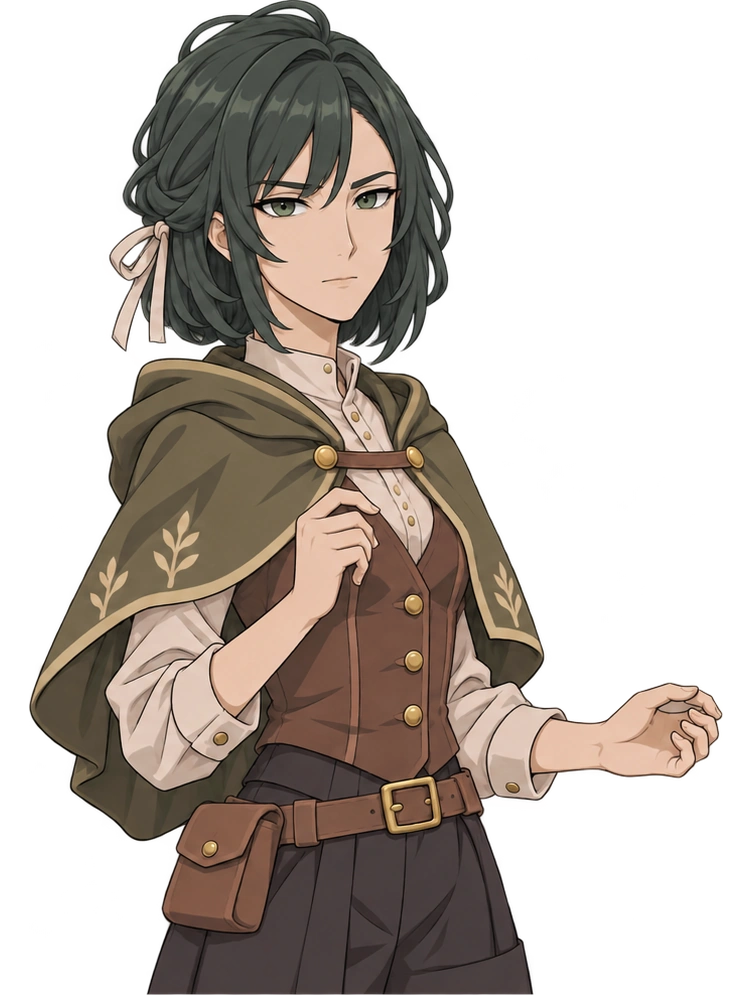
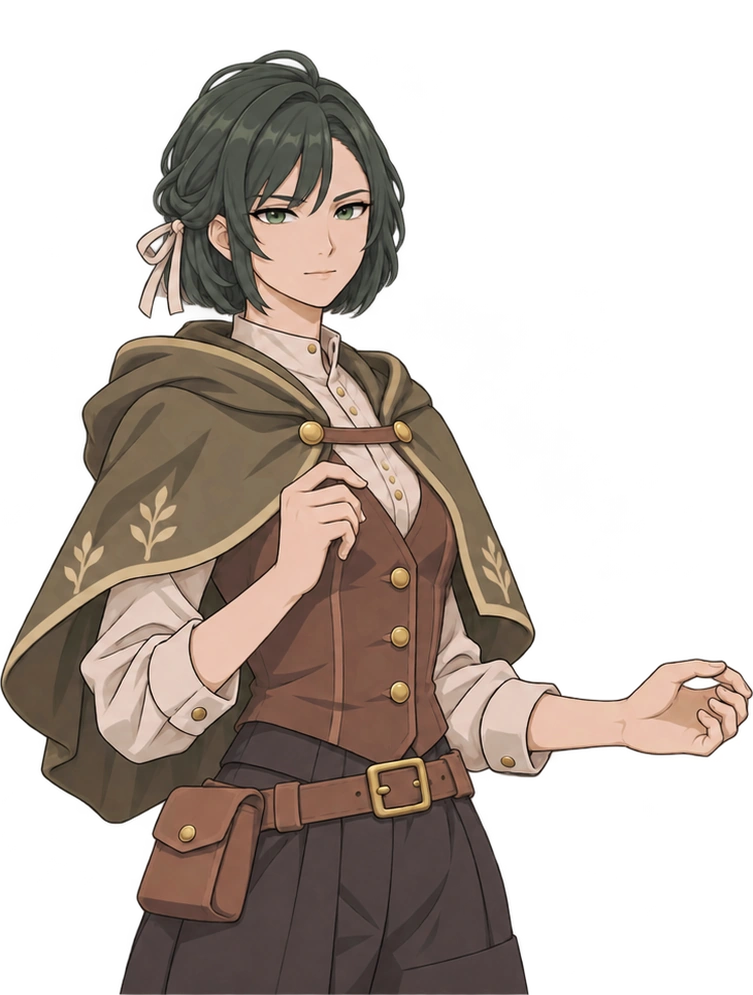
Balance Noa head proportions and soften cool-beauty portraits

Changed region(s): [[0.0, 0.0, 1.0, 1.0]]

diff --git a/tomori/game.js b/tomori/game.js
@@ -3,7 +3,7 @@
 const D=TomoriData,C=TomoriCore,$=id=>document.getElementById(id);
 const SAVE='sword-sale-v1',BACKUP=SAVE+'-backup',PREFS='tomori-preferences-v1';
 const esc=s=>String(s).replace(/[&<>"']/g,c=>({'&':'&amp;','<':'&lt;','>':'&gt;','"':'&quot;',"'":'&#39;'}[c]));
-const normalArt=(id,part)=>'assets/'+id+'-normal-'+part+'.webp'+(id==='noa'?'?v=portraits-v8':'');
+const normalArt=(id,part)=>'assets/'+id+'-normal-'+part+'.webp'+(id==='noa'?'?v=portraits-v10':'');
 const icon=id=>`<svg aria-hidden="true"><use href="#${id}-i"/></svg>`;
 let state=null,saved=null,active=null,target=null,draft=[],busy=false,generation=0,hydrated=false,screen='title',typing=null,fullLine='',toastTimer,flowQueued=false,healAction=null,dying=new Set(),replay=null,currentDialogue=null,currentCue=null;
 let prefs={reduced:matchMedia('(prefers-reduced-motion: reduce)').matches,speed:'normal',guideSeen:false};
@@ -24,7 +24,7 @@ const assetList=['forest','yard','shop','tavern',...D.IDS.flatMap(id=>[id+'-norm
 async function load(firstLine){
 const firstExpression=firstLine?TomoriPortraits.expressionAt(firstLine,prefs.speed==='instant'||prefs.reduced?Infinity:0):null;
 if(hydrated){if(firstLine)await portraitView.preload(firstLine.who,firstExpression);return;}
-const sources=assetList.map(name=>'assets/'+name+'.webp'+(name.startsWith('noa-normal-')?'?v=portraits-v8':''));
+const sources=assetList.map(name=>'assets/'+name+'.webp'+(name.startsWith('noa-normal-')?'?v=portraits-v10':''));
 if(firstLine)sources.push(portraitView.texture(firstLine.who,firstExpression));
 $('loading').hidden=false;let n=0;await Promise.all(sources.map(src=>new Promise(resolve=>{const im=new Image();im.onload=im.onerror=()=>{$('load-progress').value=++n/sources.length;resolve();};im.src=src;})));hydrated=true;$('loading').hidden=true;}
 async function begin(fresh=false){if(busy)return;busy=true;closeAll();const nextState=fresh?C.fresh():C.validate(saved)||C.fresh(),cursor=nextState.story;await load(cursor?D.STORIES[cursor.id]?.[cursor.index]:null);generation++;state=nextState;active=null;target=null;dying.clear();busy=false;save();render();if(!fresh&&recovered){toast('ひとつ前の記録から旅を再開しました。');recovered=false;}queueFlow();}
@@ -90,7 +90,7 @@ function openRoute(){$('route-list').innerHTML=D.NODES.slice(1).map(n=>{const do
 const storyNames=D.STORY_TITLES;
 function journalIndex(){$('journal-list').innerHTML='<p class="fine">買い戻しの準備：'+(state.route==='help'?'薬草弁当 / 全員の最大HP+6':state.route==='trace'?'整備図を購入 / ゴーレムの盾−1':'まだ、これから')+'</p>'+state.seen.map(id=>`<button class="journal-button" data-read="${id}">${storyNames[id]}</button>`).join('')+(!state.seen.length?'<p class="fine">読み終えた会話が、ここに残ります。</p>':'');$('journal-list').querySelectorAll('[data-read]').forEach(b=>b.onclick=()=>{$('journal-list').innerHTML='<button class="journal-button" id="journal-back">← 会話の一覧へ</button><button class="primary wide" id="replay-story">会話画面で見返す</button>'+D.STORIES[b.dataset.read].map(l=>`<div class="journal-story"><strong>${(D.HEROES[l.who]||D.NPCS[l.who]).name}</strong><p>${esc(l.text)}</p></div>`).join('');$('journal-back').onclick=journalIndex;$('replay-story').onclick=()=>startReplay(b.dataset.read);$('journal-dialog').scrollTop=0;});}
 function battleMenu(history=false){const b=state?.battle;if(!b)return;$('battle-heading').textContent=history?'戦闘の記録':'戦いの手引き';$('battle-dialog-body').innerHTML=(history?b.log:[...b.enemies.filter(e=>e.hp>0).map(e=>D.MONSTERS[e.kind].name+'：盾'+e.shield+' / '+enemyIntent(e)),b.nodeId===5?'ゴーレムは荷を固定し直します。崩した隙に大技をまとめよう。':'敵を崩すと、その敵の次の行動を中断できます。']).map(l=>`<p class="battle-record">${esc(l)}</p>`).join('');open('battle-dialog');}
-$('new-game').onclick=()=>saved?open('confirm-new'):begin(true);$('confirm-start').onclick=()=>begin(true);$('continue').onclick=()=>begin(false);$('title-guide').onclick=()=>open('guide-dialog');$('title-settings').onclick=()=>open('settings-dialog');$('hub-settings').onclick=()=>open('settings-dialog');$('settings-title').onclick=()=>{save();showTitle();};$('depart').onclick=()=>depart(state.completed?5:state.next);$('rest').onclick=()=>{const r=C.rest(state);if(r.ok){save();renderHub();toast(r.message);}};$('route').onclick=openRoute;$('party-open').onclick=openParty;$('party-confirm').onclick=()=>{const r=C.formation(state,draft);if(r.ok){save();close('party-dialog');renderHub();toast('この3人で、旅に出よう。');}};$('gear-open').onclick=openGear;$('bag-open').onclick=()=>{renderBag();open('bag-dialog');};$('buy').onclick=()=>{if(C.buy(state).ok){save();renderBag();renderHub();toast('回復薬を道具袋に入れた。');}};$('journal-open').onclick=()=>{journalIndex();open('journal-dialog');};$('story-next').onclick=()=>nextStory();$('story-line').onclick=()=>{if(typing){clearInterval(typing);typing=null;$('story-line').textContent=fullLine;applyStoryExpression(Infinity);}};$('story-skip').onclick=()=>nextStory(true);$('battle-potion').onclick=()=>action('potion');$('battle-menu').onclick=()=>battleMenu();$('battle-history').onclick=()=>battleMenu(true);$('battle-guide').onclick=()=>{close('battle-dialog');open('guide-dialog');};$('retreat').onclick=()=>{generation++;busy=false;dying.clear();closeAll();if(!state.battle)return;state.battle.phase='loss';C.complete(state);save();render();};$('result-next').onclick=()=>{C.afterResult(state);save();render();};$('result-retry').onclick=()=>{const id=state.lastBattle.nodeId;state.view='camp';depart(id);};$('ending-camp').onclick=()=>{state.view='camp';save();render();};$('ending-title').onclick=()=>{save();showTitle();};$('share').onclick=async()=>{const text='昨日300Gで売った剣が、今日1億Gになっていた。\n「勇者の剣、売りました。」第1章クリア。\nhttps://sakamoto241.github.io/game/tomori/?v=9';try{if(navigator.share)await navigator.share({title:D.TITLE,text});else{await navigator.clipboard.writeText(text);toast('買い戻しの記録とURLをコピーしました。');}}catch(e){if(e.name!=='AbortError'){toast('共有するURL：https://sakamoto241.github.io/game/tomori/?v=9');}}};$('reduced').onchange=e=>{prefs.reduced=e.target.checked;savePrefs();};$('text-speed').onchange=e=>{prefs.speed=e.target.value;savePrefs();};document.querySelectorAll('[data-close]').forEach(b=>b.onclick=()=>close(b.dataset.close));document.querySelectorAll('dialog').forEach(d=>{d.addEventListener('close',queueFlow);d.addEventListener('click',e=>{if(e.target===d){const r=d.getBoundingClientRect();if(e.clientX<r.left||e.clientX>r.right||e.clientY<r.top||e.clientY>r.bottom)d.close();}});});
+$('new-game').onclick=()=>saved?open('confirm-new'):begin(true);$('confirm-start').onclick=()=>begin(true);$('continue').onclick=()=>begin(false);$('title-guide').onclick=()=>open('guide-dialog');$('title-settings').onclick=()=>open('settings-dialog');$('hub-settings').onclick=()=>open('settings-dialog');$('settings-title').onclick=()=>{save();showTitle();};$('depart').onclick=()=>depart(state.completed?5:state.next);$('rest').onclick=()=>{const r=C.rest(state);if(r.ok){save();renderHub();toast(r.message);}};$('route').onclick=openRoute;$('party-open').onclick=openParty;$('party-confirm').onclick=()=>{const r=C.formation(state,draft);if(r.ok){save();close('party-dialog');renderHub();toast('この3人で、旅に出よう。');}};$('gear-open').onclick=openGear;$('bag-open').onclick=()=>{renderBag();open('bag-dialog');};$('buy').onclick=()=>{if(C.buy(state).ok){save();renderBag();renderHub();toast('回復薬を道具袋に入れた。');}};$('journal-open').onclick=()=>{journalIndex();open('journal-dialog');};$('story-next').onclick=()=>nextStory();$('story-line').onclick=()=>{if(typing){clearInterval(typing);typing=null;$('story-line').textContent=fullLine;applyStoryExpression(Infinity);}};$('story-skip').onclick=()=>nextStory(true);$('battle-potion').onclick=()=>action('potion');$('battle-menu').onclick=()=>battleMenu();$('battle-history').onclick=()=>battleMenu(true);$('battle-guide').onclick=()=>{close('battle-dialog');open('guide-dialog');};$('retreat').onclick=()=>{generation++;busy=false;dying.clear();closeAll();if(!state.battle)return;state.battle.phase='loss';C.complete(state);save();render();};$('result-next').onclick=()=>{C.afterResult(state);save();render();};$('result-retry').onclick=()=>{const id=state.lastBattle.nodeId;state.view='camp';depart(id);};$('ending-camp').onclick=()=>{state.view='camp';save();render();};$('ending-title').onclick=()=>{save();showTitle();};$('share').onclick=async()=>{const text='昨日300Gで売った剣が、今日1億Gになっていた。\n「勇者の剣、売りました。」第1章クリア。\nhttps://sakamoto241.github.io/game/tomori/?v=10';try{if(navigator.share)await navigator.share({title:D.TITLE,text});else{await navigator.clipboard.writeText(text);toast('買い戻しの記録とURLをコピーしました。');}}catch(e){if(e.name!=='AbortError'){toast('共有するURL：https://sakamoto241.github.io/game/tomori/?v=10');}}};$('reduced').onchange=e=>{prefs.reduced=e.target.checked;savePrefs();};$('text-speed').onchange=e=>{prefs.speed=e.target.value;savePrefs();};document.querySelectorAll('[data-close]').forEach(b=>b.onclick=()=>close(b.dataset.close));document.querySelectorAll('dialog').forEach(d=>{d.addEventListener('close',queueFlow);d.addEventListener('click',e=>{if(e.target===d){const r=d.getBoundingClientRect();if(e.clientX<r.left||e.clientX>r.right||e.clientY<r.top||e.clientY>r.bottom)d.close();}});});
 document.addEventListener('visibilitychange',()=>{if(document.hidden)save();else queueFlow();});window.addEventListener('pagehide',save);window.addEventListener('resize',resizeCanvas);document.addEventListener('contextmenu',e=>{if(e.target.closest('#app'))e.preventDefault();});document.addEventListener('error',e=>{if(e.target instanceof HTMLImageElement&&!e.target.dataset.failed){e.target.dataset.failed='1';e.target.src='assets/fallback.svg';}},true);
 applyPrefs();showTitle();
 })();

diff --git a/tomori/index.html b/tomori/index.html
@@ -1,4 +1,4 @@
-<!doctype html><html lang="ja"><head><meta charset="utf-8"><meta name="viewport" content="width=device-width,initial-scale=1,viewport-fit=cover"><meta name="theme-color" content="#223b34"><title>勇者の剣、売りました。</title><meta name="description" content="昨日300Gで売った剣が、今日1億Gになっていた。四人で夕食に使った代金を取り返す、買い戻し冒険RPG。"><meta property="og:title" content="勇者の剣、売りました。"><meta property="og:description" content="聖剣を売ったお金は、四人の胃袋へ。買い手を追いかけるドタバタRPG。通常は等身の高い立ち絵、戦闘はSDキャラ。"><meta property="og:image" content="https://sakamoto241.github.io/game/tomori/og.jpg?v=9"><meta property="og:url" content="https://sakamoto241.github.io/game/tomori/"><meta property="og:locale" content="ja_JP"><meta name="twitter:image" content="https://sakamoto241.github.io/game/tomori/og.jpg?v=9"><meta name="twitter:card" content="summary_large_image"><link rel="stylesheet" href="styles.css?v=9"><link rel="preload" as="image" href="assets/shop.webp"></head><body>
+<!doctype html><html lang="ja"><head><meta charset="utf-8"><meta name="viewport" content="width=device-width,initial-scale=1,viewport-fit=cover"><meta name="theme-color" content="#223b34"><title>勇者の剣、売りました。</title><meta name="description" content="昨日300Gで売った剣が、今日1億Gになっていた。四人で夕食に使った代金を取り返す、買い戻し冒険RPG。"><meta property="og:title" content="勇者の剣、売りました。"><meta property="og:description" content="聖剣を売ったお金は、四人の胃袋へ。買い手を追いかけるドタバタRPG。通常は等身の高い立ち絵、戦闘はSDキャラ。"><meta property="og:image" content="https://sakamoto241.github.io/game/tomori/og.jpg?v=10"><meta property="og:url" content="https://sakamoto241.github.io/game/tomori/"><meta property="og:locale" content="ja_JP"><meta name="twitter:image" content="https://sakamoto241.github.io/game/tomori/og.jpg?v=10"><meta name="twitter:card" content="summary_large_image"><link rel="stylesheet" href="styles.css?v=10"><link rel="preload" as="image" href="assets/shop.webp"></head><body>
 <svg class="defs" aria-hidden="true"><defs><symbol id="coin-i" viewBox="0 0 24 24"><circle cx="12" cy="12" r="9"/><path d="m12 5 4 7-4 7-4-7z"/></symbol><symbol id="ore-i" viewBox="0 0 24 24"><path d="m6 3 12 0 5 9-5 9H6l-5-9z"/><circle cx="12" cy="12" r="4"/></symbol><symbol id="party-i" viewBox="0 0 24 24"><circle cx="12" cy="7" r="4"/><path d="M4 22v-4c0-8 16-8 16 0v4M3 4a3 3 0 0 0 0 6m18-6a3 3 0 0 1 0 6"/></symbol><symbol id="sword-i" viewBox="0 0 24 24"><path d="m5 20 7-8M9 8l7 7m-6-6 9-7 3 3-8 9M2 18l4 4"/></symbol><symbol id="bag-i" viewBox="0 0 24 24"><path d="M5 8h14l2 13H3zM8 8V5a4 4 0 0 1 8 0v3M9 12h6"/></symbol><symbol id="book-i" viewBox="0 0 24 24"><path d="M12 5S6 2 2 5v15c5-3 10 1 10 1s5-4 10-1V5c-5-3-10 0-10 0zM12 5v16"/></symbol><symbol id="shield-i" viewBox="0 0 24 24"><path d="m12 2 9 4v7c0 6-9 9-9 9S3 19 3 13V6zM12 5v14"/></symbol><symbol id="rest-i" viewBox="0 0 24 24"><path d="M4 8h12v6c0 7-12 7-12 0zM16 9h2a3 3 0 0 1 0 6h-2M3 22h15M8 2v3m5-3v3"/></symbol></defs></svg>
 <main id="app"><div id="scenery"></div><div class="scene-wash"></div><section id="title"><div class="title-copy"><p class="eyebrow">昨日300G、今日1億G。</p><h1>勇者の剣、<br><span>売りました。</span></h1><p class="tagline">その代金は、<br>四人の夕食になりました。</p></div><img class="title-character" src="assets/rine-normal-body.webp" alt="古道具屋の鑑定士リネ" draggable="false"><div class="title-menu"><button id="new-game" class="primary">はじめる <span>→</span></button><button id="continue" class="secondary" hidden>つづきから <span>→</span></button><div class="title-links"><button id="title-guide">遊び方</button><button id="title-settings">設定</button></div><p class="fine">第一章「食べた300G」 / 3人編成のコマンドRPG</p><p id="save-note" hidden></p></div></section>
 <section id="hub" hidden><header class="hub-header"><div><p class="eyebrow">第一章 · 食べた300G</p><h1>買い戻し作戦</h1></div><div class="resources"><span><svg><use href="#coin-i"/></svg><b id="gold">40</b></span><span><svg><use href="#ore-i"/></svg><b id="ore">1</b></span><button id="hub-settings" class="icon" aria-label="設定">≡</button></div></header><img id="hub-character" src="assets/rine-normal-portrait.webp" alt="リネ" draggable="false"><div class="hub-speech"><span>リネ</span><p id="hub-line"></p></div><div class="hub-bottom"><div class="current-quest"><p class="eyebrow" id="quest-label">次の行き先</p><h2 id="quest-title"></h2><p id="quest-description"></p></div><div id="hub-party" class="hub-party"></div><button id="depart" class="primary wide"></button><div class="hub-options"><button id="rest"><svg><use href="#rest-i"/></svg>ひと息つく</button><button id="route"><svg><use href="#book-i"/></svg>行き先を見る</button></div><nav class="bottom-nav"><button id="party-open"><svg><use href="#party-i"/></svg><span>仲間</span></button><button id="gear-open"><svg><use href="#sword-i"/></svg><span>装備</span></button><button id="bag-open"><svg><use href="#bag-i"/></svg><span>道具</span></button><button id="journal-open"><svg><use href="#book-i"/></svg><span>手帳</span></button></nav></div></section>
@@ -17,4 +17,4 @@
 <dialog id="battle-dialog" aria-labelledby="battle-heading"><div class="dialog-head"><h2 id="battle-heading">戦いの手引き</h2><button class="close" data-close="battle-dialog" aria-label="戻る">×</button></div><div id="battle-dialog-body"></div><button id="battle-history" class="secondary wide">戦闘ログを見る</button><button id="battle-guide" class="primary wide">連携の基本を見る</button><button class="secondary wide" data-close="battle-dialog">戦闘にもどる</button><button id="retreat" class="text-button">撤退して拠点へ戻る</button></dialog>
 <dialog id="settings-dialog" aria-labelledby="settings-heading"><div class="dialog-head"><h2 id="settings-heading">設定</h2><button class="close" data-close="settings-dialog" aria-label="閉じる">×</button></div><label class="setting"><span>演出をひかえめに</span><input id="reduced" type="checkbox"></label><label class="setting"><span>効果音</span><input id="sound-se" type="checkbox" checked></label><label class="setting"><span>BGM</span><input id="sound-bgm" type="checkbox" checked></label><label class="setting"><span>会話の速さ</span><select id="text-speed"><option value="normal">ふつう</option><option value="instant">すぐ表示</option></select></label><button id="settings-title" class="secondary wide">保存してタイトルへ</button><p class="fine">戦闘途中も、行動ごとに自動で保存します。<br>音は画面をタップすると鳴り始めます。ボイスはありません。</p><a href="credits.html" target="_blank" rel="noopener" class="credits-link">絵とゲームについて</a></dialog>
 <dialog id="confirm-new" aria-labelledby="new-heading"><h2 id="new-heading">新しいはじめる？</h2><p>この旅の記録を、はじめからにします。</p><button id="confirm-start" class="primary wide">はじめから旅立つ</button><button class="secondary wide" data-close="confirm-new">今の旅を残す</button></dialog>
-<p id="toast" role="status" aria-live="polite"></p><script src="data.js?v=9"></script><script src="core.js?v=9"></script><script src="expressions.js?v=9"></script><script src="portraits.js?v=9"></script><script src="music.js?v=9"></script><script src="audio.js?v=9"></script><script src="game.js?v=9"></script></body></html>
+<p id="toast" role="status" aria-live="polite"></p><script src="data.js?v=10"></script><script src="core.js?v=10"></script><script src="expressions.js?v=10"></script><script src="portraits.js?v=10"></script><script src="music.js?v=10"></script><script src="audio.js?v=10"></script><script src="game.js?v=10"></script></body></html>

diff --git a/tomori/expressions.js b/tomori/expressions.js
@@ -1,2 +1,2 @@
 /* Complete portrait frames; dialogue renders exactly one image. */
-(function(root){const data={"rine":{"width":476,"height":956,"variants":["smile","surprised","troubled","serious"],"frames":{"smile":"assets/portraits/rine-smile-portrait.webp","serious":"assets/portraits/rine-serious-portrait.webp","surprised":"assets/portraits/rine-surprised-portrait.webp","troubled":"assets/portraits/rine-troubled-portrait.webp"},"neutral":"assets/rine-normal-portrait.webp","revision":"portraits-v8","labels":{"neutral":"気を緩めた笑顔","smile":"目を合わせた愛想笑い","surprised":"高い報酬に驚く","troubled":"申し訳なさの出る困り顔","serious":"交渉相手を見据える"}},"ash":{"width":760,"height":936,"variants":["smile","surprised","troubled","serious"],"frames":{"smile":"assets/portraits/ash-smile-portrait.webp","troubled":"assets/portraits/ash-troubled-portrait.webp","serious":"assets/portraits/ash-serious-portrait.webp","surprised":"assets/portraits/ash-surprised-portrait.webp"},"neutral":"assets/ash-normal-portrait.webp","revision":"portraits-v8","labels":{"neutral":"いつもの笑顔","smile":"穏やかな親しみのある笑顔","surprised":"声に出る驚き","troubled":"口元に出る気まずさ","serious":"仲間を守る決意"}},"noa":{"width":753,"height":995,"variants":["smile","surprised","troubled","serious"],"frames":{"smile":"assets/portraits/noa-smile-portrait.webp","serious":"assets/portraits/noa-serious-portrait.webp","surprised":"assets/portraits/noa-surprised-portrait.webp","troubled":"assets/portraits/noa-troubled-portrait.webp"},"neutral":"assets/noa-normal-portrait.webp","revision":"portraits-v8","labels":{"neutral":"落ち着いて話す","smile":"片口角の余裕ある笑み","surprised":"静かに訝しむ","troubled":"眉と口元に出る呆れ","serious":"相手を見て確かめる"}},"finn":{"width":549,"height":999,"variants":["smile","surprised","troubled","serious"],"frames":{"smile":"assets/portraits/finn-smile-portrait.webp","serious":"assets/portraits/finn-serious-portrait.webp","surprised":"assets/portraits/finn-surprised-portrait.webp","troubled":"assets/portraits/finn-troubled-portrait.webp"},"neutral":"assets/finn-normal-portrait.webp","revision":"portraits-v8","labels":{"neutral":"穏やかに話す","smile":"目を合わせた控えめな微笑み","surprised":"静かな驚き","troubled":"言葉をのみ込む困り顔","serious":"落ち着いて説明する目"}},"hugo":{"width":678,"height":1000,"variants":["smile","surprised","troubled","serious"],"frames":{"smile":"assets/portraits/hugo-smile-portrait.webp","serious":"assets/portraits/hugo-serious-portrait.webp","surprised":"assets/portraits/hugo-surprised-portrait.webp","troubled":"assets/portraits/hugo-troubled-portrait.webp"},"neutral":"assets/hugo-normal-portrait.webp","revision":"portraits-v8","labels":{"neutral":"気さくに話す","smile":"頬と目尻で豪快に笑う","surprised":"眉を上げて声を荒らげる","troubled":"困り果てる","serious":"短く警告する","laugh":"大笑い"}}};if(typeof module==='object'&&module.exports)module.exports=data;else root.TomoriExpressions=data;})(globalThis);
+(function(root){const data={"rine":{"width":476,"height":956,"variants":["smile","surprised","troubled","serious"],"frames":{"smile":"assets/portraits/rine-smile-portrait.webp","serious":"assets/portraits/rine-serious-portrait.webp","surprised":"assets/portraits/rine-surprised-portrait.webp","troubled":"assets/portraits/rine-troubled-portrait.webp"},"neutral":"assets/rine-normal-portrait.webp","revision":"portraits-v8","labels":{"neutral":"気を緩めた笑顔","smile":"目を合わせた愛想笑い","surprised":"高い報酬に驚く","troubled":"申し訳なさの出る困り顔","serious":"交渉相手を見据える"}},"ash":{"width":760,"height":936,"variants":["smile","surprised","troubled","serious"],"frames":{"smile":"assets/portraits/ash-smile-portrait.webp","troubled":"assets/portraits/ash-troubled-portrait.webp","serious":"assets/portraits/ash-serious-portrait.webp","surprised":"assets/portraits/ash-surprised-portrait.webp"},"neutral":"assets/ash-normal-portrait.webp","revision":"portraits-v8","labels":{"neutral":"いつもの笑顔","smile":"穏やかな親しみのある笑顔","surprised":"声に出る驚き","troubled":"口元に出る気まずさ","serious":"仲間を守る決意"}},"noa":{"width":753,"height":995,"variants":["smile","surprised","troubled","serious"],"frames":{"smile":"assets/portraits/noa-smile-portrait.webp","serious":"assets/portraits/noa-serious-portrait.webp","surprised":"assets/portraits/noa-surprised-portrait.webp","troubled":"assets/portraits/noa-troubled-portrait.webp"},"neutral":"assets/noa-normal-portrait.webp","revision":"portraits-v10","labels":{"neutral":"落ち着いて話す","smile":"片口角の余裕ある笑み","surprised":"静かに訝しむ","troubled":"眉と口元に出る呆れ","serious":"相手を見て確かめる"}},"finn":{"width":549,"height":999,"variants":["smile","surprised","troubled","serious"],"frames":{"smile":"assets/portraits/finn-smile-portrait.webp","serious":"assets/portraits/finn-serious-portrait.webp","surprised":"assets/portraits/finn-surprised-portrait.webp","troubled":"assets/portraits/finn-troubled-portrait.webp"},"neutral":"assets/finn-normal-portrait.webp","revision":"portraits-v8","labels":{"neutral":"穏やかに話す","smile":"目を合わせた控えめな微笑み","surprised":"静かな驚き","troubled":"言葉をのみ込む困り顔","serious":"落ち着いて説明する目"}},"hugo":{"width":678,"height":1000,"variants":["smile","surprised","troubled","serious"],"frames":{"smile":"assets/portraits/hugo-smile-portrait.webp","serious":"assets/portraits/hugo-serious-portrait.webp","surprised":"assets/portraits/hugo-surprised-portrait.webp","troubled":"assets/portraits/hugo-troubled-portrait.webp"},"neutral":"assets/hugo-normal-portrait.webp","revision":"portraits-v8","labels":{"neutral":"気さくに話す","smile":"頬と目尻で豪快に笑う","surprised":"眉を上げて声を荒らげる","troubled":"困り果てる","serious":"短く警告する","laugh":"大笑い"}}};if(typeof module==='object'&&module.exports)module.exports=data;else root.TomoriExpressions=data;})(globalThis);

diff --git a/tomori/credits.html b/tomori/credits.html
@@ -1,1 +1,1 @@
-<!doctype html><html lang="ja"><meta charset="utf-8"><meta name="viewport" content="width=device-width,initial-scale=1,viewport-fit=cover"><title>絵とゲームについて — 勇者の剣、売りました。</title><style>body{max-width:620px;margin:35px auto;padding:20px;background:#f4f0df;color:#273a35;font:15px/2 -apple-system,sans-serif}h1{font-size:27px}h2{font-size:19px;margin-top:30px}a{color:#294c41}p{margin:18px 0}</style><h1>勇者の剣、売りました。</h1><p>300Gで売った聖剣の代金は、四人の夕食へ。翌朝、発見報酬が1億Gだと知った古道具屋リネたちが、買い手を追いかけます。</p><h2>絵について</h2><p>通常は等身の高いアニメ調の立ち絵、戦闘は小さなSDキャラを使い分けています。キャラクター・敵・背景・小道具には制作時に生成した画像を使用し、ゲーム用に切り出し・縮小しています。</p><p>会話では一枚で完結した立ち絵を、セリフに合わせて切り替えます。手帳から、表情つきの会話を見返せます。</p><h2>収録範囲</h2><p>第一章「食べた300G」。道中三戦、荷役ゴーレム戦、買い戻しの商談と二種類の結末を収録しています。王都での鑑定と1億Gの受け取りは、この章の後の出来事です。</p><h2>音声・保存</h2><p>効果音とBGM（古道具屋・戦闘・ボス戦の3曲）は、音源ファイルを使わず、ブラウザの Web Audio でその場で合成・演奏しています。会話中は音楽を控えめにし、場面に合わせてフェードします。ボイスはありません。プレイ中に画像生成APIへの通信はありません。進行はこのブラウザ内に自動保存します。新しい物語の記録は旧作の保存データと分けてあり、旧作の記録を削除しません。端末間の共有には対応していません。</p><p><a href="./?v=9">ゲームへ戻る</a></p></html>
+<!doctype html><html lang="ja"><meta charset="utf-8"><meta name="viewport" content="width=device-width,initial-scale=1,viewport-fit=cover"><title>絵とゲームについて — 勇者の剣、売りました。</title><style>body{max-width:620px;margin:35px auto;padding:20px;background:#f4f0df;color:#273a35;font:15px/2 -apple-system,sans-serif}h1{font-size:27px}h2{font-size:19px;margin-top:30px}a{color:#294c41}p{margin:18px 0}</style><h1>勇者の剣、売りました。</h1><p>300Gで売った聖剣の代金は、四人の夕食へ。翌朝、発見報酬が1億Gだと知った古道具屋リネたちが、買い手を追いかけます。</p><h2>絵について</h2><p>通常は等身の高いアニメ調の立ち絵、戦闘は小さなSDキャラを使い分けています。キャラクター・敵・背景・小道具には制作時に生成した画像を使用し、ゲーム用に切り出し・縮小しています。</p><p>会話では一枚で完結した立ち絵を、セリフに合わせて切り替えます。手帳から、表情つきの会話を見返せます。</p><h2>収録範囲</h2><p>第一章「食べた300G」。道中三戦、荷役ゴーレム戦、買い戻しの商談と二種類の結末を収録しています。王都での鑑定と1億Gの受け取りは、この章の後の出来事です。</p><h2>音声・保存</h2><p>効果音とBGM（古道具屋・戦闘・ボス戦の3曲）は、音源ファイルを使わず、ブラウザの Web Audio でその場で合成・演奏しています。会話中は音楽を控えめにし、場面に合わせてフェードします。ボイスはありません。プレイ中に画像生成APIへの通信はありません。進行はこのブラウザ内に自動保存します。新しい物語の記録は旧作の保存データと分けてあり、旧作の記録を削除しません。端末間の共有には対応していません。</p><p><a href="./?v=10">ゲームへ戻る</a></p></html>

diff --git a/tomori/tools/prepare_expressions.py b/tomori/tools/prepare_expressions.py
@@ -3,7 +3,7 @@ No head/body compositing or facial retouching: each source cell is a finished fi
 """
 from PIL import Image
 from pathlib import Path
-import json,hashlib
+import json,hashlib,argparse
 ROOT=Path('/workspace/generated_images');PROJECT=Path(__file__).resolve().parents[1];OUT=PROJECT/'assets'/'portraits'
 SOURCES={
  'rine':[
@@ -14,8 +14,8 @@ SOURCES={
   ('exec-b9c15cfc-2752-4636-80c7-3a09693d0840.png',{1:'serious'}),
   ('exec-7045c9ed-36d4-469b-bb08-b8978842eb6f.png',{0:'surprised'})],
  'noa':[
-  ('exec-1b4f2f2b-4d3b-4f07-bf18-d35c38dffe47.png',{0:'smile',1:'serious'}),
-  ('exec-f367641d-9d7a-43df-b4d5-bcd12f7ce61a.png',{0:'surprised',1:'troubled'})],
+  ('exec-22610fff-7378-4c55-9379-5270268e6499.png',{0:'smile',1:'serious'}),
+  ('exec-b04a4675-0301-46eb-ac52-a74e6253fc5c.png',{0:'surprised',1:'troubled'})],
  'finn':[
   ('exec-6cb76950-3a95-4ae7-a7b5-c74a1449390b.png',{0:'smile',1:'serious'}),
   ('exec-9dbd290c-d343-497d-8efd-3c36dce2f557.png',{0:'surprised',1:'troubled'})],
@@ -23,7 +23,7 @@ SOURCES={
   ('exec-04f77514-be85-410a-b406-5a217ccdcc0f.png',{0:'smile',1:'serious'}),
   ('exec-bd8ca579-1cb1-40d3-96cb-f6e662fa7a77.png',{0:'surprised',1:'troubled'})]
 }
-NOA_MASTER='exec-30af6c68-828b-4287-9fa2-6caf7d50f830.png'
+NOA_MASTER='exec-cb22d0e7-9f29-46ab-a85a-253b83bea34b.png'
 LABELS={
  'rine':{'neutral':'気を緩めた笑顔','smile':'目を合わせた愛想笑い','surprised':'高い報酬に驚く','troubled':'申し訳なさの出る困り顔','serious':'交渉相手を見据える'},
  'ash':{'neutral':'いつもの笑顔','smile':'穏やかな親しみのある笑顔','surprised':'声に出る驚き','troubled':'口元に出る気まずさ','serious':'仲間を守る決意'},
@@ -31,6 +31,8 @@ LABELS={
  'finn':{'neutral':'穏やかに話す','smile':'目を合わせた控えめな微笑み','surprised':'静かな驚き','troubled':'言葉をのみ込む困り顔','serious':'落ち着いて説明する目'},
  'hugo':{'neutral':'気さくに話す','smile':'頬と目尻で豪快に笑う','surprised':'眉を上げて声を荒らげる','troubled':'困り果てる','serious':'短く警告する','laugh':'大笑い'}
 }
+parser=argparse.ArgumentParser();parser.add_argument('--only',choices=list(SOURCES));args=parser.parse_args()
+
 def trim(im):
  bbox=im.getchannel('A').point(lambda a:255 if a>32 else 0).getbbox()
  return im.crop(bbox) if bbox else im
@@ -52,17 +54,20 @@ for char,entries in SOURCES.items():
   sheet=Image.open(ROOT/file).convert('RGBA');sw,sh=sheet.size
   for column,expression in cells.items():
    cell=sheet.crop((round(column*sw/2),0,round((column+1)*sw/2),sh))
-   frame=fitted(cell,size);path=OUT/f'{char}-{expression}-portrait.webp';encoded(frame,path)
+   path=OUT/f'{char}-{expression}-portrait.webp'
+   if not args.only or args.only==char:encoded(fitted(cell,size),path)
+   else:assert path.exists(),path
    assert expression not in frames;frames[expression]=str(path.relative_to(PROJECT))
   provenance.append(record(file,character=char,cells=cells))
  assert set(frames)=={'smile','surprised','troubled','serious'}
- manifest[char]={'width':size[0],'height':size[1],'variants':['smile','surprised','troubled','serious'],'frames':frames,'neutral':f'assets/{char}-normal-portrait.webp','revision':'portraits-v8','labels':LABELS[char]}
+ manifest[char]={'width':size[0],'height':size[1],'variants':['smile','surprised','troubled','serious'],'frames':frames,'neutral':f'assets/{char}-normal-portrait.webp','revision':'portraits-v10' if char=='noa' else 'portraits-v8','labels':LABELS[char]}
 # One redesigned neutral supplies all of Noa's normal portraits and menu thumbnails.
-size=(manifest['noa']['width'],manifest['noa']['height'])
-neutral=fitted(Image.open(ROOT/NOA_MASTER).convert('RGBA'),size);encoded(neutral,PROJECT/'assets'/'noa-normal-portrait.webp')
-body=neutral.copy();body.thumbnail((500,1000),Image.Resampling.LANCZOS);encoded(body,PROJECT/'assets'/'noa-normal-body.webp')
-face=neutral.crop((0,0,neutral.width,round(neutral.height*.49)));face.thumbnail((300,320),Image.Resampling.LANCZOS);encoded(face,PROJECT/'assets'/'noa-normal-face.webp')
+if not args.only or args.only=='noa':
+ size=(manifest['noa']['width'],manifest['noa']['height'])
+ neutral=fitted(Image.open(ROOT/NOA_MASTER).convert('RGBA'),size);encoded(neutral,PROJECT/'assets'/'noa-normal-portrait.webp')
+ body=neutral.copy();body.thumbnail((500,1000),Image.Resampling.LANCZOS);encoded(body,PROJECT/'assets'/'noa-normal-body.webp')
+ face=neutral.crop((0,0,neutral.width,round(neutral.height*.49)));face.thumbnail((300,320),Image.Resampling.LANCZOS);encoded(face,PROJECT/'assets'/'noa-normal-face.webp')
 provenance.append(record(NOA_MASTER,character='noa',purpose='Distinct neutral face and normal menu artwork'))
-(OUT/'provenance.json').write_text(json.dumps({'revision':'portraits-v8','method':'Each cell is a complete generated character portrait. Technical bounding crop, proportional resize, transparent padding and high-quality WebP encoding only. No original head, face, hand or collar is layered beneath it.','sources':provenance,'acting':LABELS,'noa_identity':'Longer face and chin, straighter nose and brows, narrow jade eyes, cooler skin; Rine retains rounder cheeks and large amber eyes.','legacy':'assets/expressions contains retired v4/v5 heads only for compatibility. The current game never requests them.'},ensure_ascii=False,indent=2)+'\n')
+(OUT/'provenance.json').write_text(json.dumps({'revision':'portraits-v10','method':'Each cell is a complete generated character portrait. Technical bounding crop, proportional resize, transparent padding and high-quality WebP encoding only. No original head, face, hand or collar is layered beneath it.','sources':provenance,'acting':LABELS,'noa_identity':'Balanced smaller head and hair, softly tapered shorter chin, natural shorter nose, calm green almond eyes and straight brows. A composed cool beauty with a hint of playful wit; Rine retains rounder cheeks and large amber eyes.','legacy':'assets/expressions contains retired v4/v5 heads only for compatibility. The current game never requests them.'},ensure_ascii=False,indent=2)+'\n')
 (PROJECT/'expressions.js').write_text('/* Complete portrait frames; dialogue renders exactly one image. */\n(function(root){const data='+json.dumps(manifest,ensure_ascii=False,separators=(',',':'))+';if(typeof module===\'object\'&&module.exports)module.exports=data;else root.TomoriExpressions=data;})(globalThis);\n')
-print('Prepared 20 complete portraits and redesigned Noa; portrait bytes:',sum(p.stat().st_size for p in OUT.iterdir()))
+print('Updated',args.only or 'all characters','; complete portrait bytes:',sum(p.stat().st_size for p in OUT.iterdir()))

diff --git a/tomori/tools/expression_browser_check.py b/tomori/tools/expression_browser_check.py
@@ -4,7 +4,7 @@ Run a static server first. Requires Playwright and Chromium, as browser_check.py
 import argparse,json,os
 from pathlib import Path
 from playwright.sync_api import sync_playwright
-ap=argparse.ArgumentParser();ap.add_argument('--url',default='http://127.0.0.1:8006/tomori/?v=8');ap.add_argument('--out',default='/tmp/tomori-expression-check');args=ap.parse_args();out=Path(args.out);out.mkdir(parents=True,exist_ok=True)
+ap=argparse.ArgumentParser();ap.add_argument('--url',default='http://127.0.0.1:8006/tomori/?v=10');ap.add_argument('--out',default='/tmp/tomori-expression-check');args=ap.parse_args();out=Path(args.out);out.mkdir(parents=True,exist_ok=True)
 KEY='sword-sale-v1'
 
 def load_story(context,id,index,speed='instant'):
@@ -46,8 +46,9 @@ with sync_playwright() as pw:
   for exp in ['neutral','smile','surprised','troubled','serious']:
    p.evaluate("({char,exp})=>window.preview.show(char,exp,char)",{'char':char,'exp':exp});expect_face(p,char,exp)
    src=p.locator('#story-character').get_attribute('src')
-   assert '-portrait.webp?v=portraits-v8' in src
-   if exp!='neutral':assert src==f'assets/portraits/{char}-{exp}-portrait.webp?v=portraits-v8'
+   revision=p.evaluate('(char)=>TomoriExpressions[char].revision',char)
+   assert '-portrait.webp?v='+revision in src
+   if exp!='neutral':assert src==f'assets/portraits/{char}-{exp}-portrait.webp?v={revision}'
    size=p.locator('#story-character').evaluate('(im)=>[im.naturalWidth,im.naturalHeight]')
    expected=p.evaluate('(char)=>[TomoriExpressions[char].width,TomoriExpressions[char].height]',char)
    assert size==expected,(char,exp,size,expected)
@@ -58,9 +59,10 @@ with sync_playwright() as pw:
   p.set_viewport_size({'width':width,'height':height})
   for evidence in ['true','false']:
    p.evaluate("e=>document.getElementById('story').dataset.evidence=e",evidence)
-   p.evaluate("()=>window.preview.show('finn','serious','フィン')");expect_face(p,'finn','serious')
-   assert p.locator('#story > img:visible').count()==1
-   p.screenshot(path=str(out/f'single-image-{width}-{evidence}.png'))
+   for char in ['finn','noa']:
+    p.evaluate("char=>window.preview.show(char,'serious',char)",char);expect_face(p,char,'serious')
+    assert p.locator('#story > img:visible').count()==1
+    p.screenshot(path=str(out/f'single-image-{char}-{width}-{evidence}.png'))
  p.close()
  # Existing Hugo's complete laughing pose remains available.
  p=load_story(c,'honest',1);p.wait_for_function("()=>document.getElementById('story-character').dataset.expression==='laugh'")

diff --git a/tomori/README.md b/tomori/README.md
@@ -30,11 +30,11 @@
 
 会話では `#story-character` の画像を丸ごと交換し、常に完成した立ち絵を一枚だけ表示します。旧方式の頭部・首・襟・手のマスクや合成レイヤーは使いません。5人それぞれに笑顔・驚き・困り顔・真剣の計20枚を用意し、通常の表情とヒューゴの笑いポーズも使います。
 
-視線は極端な横目や細すぎる半目を避け、話し相手を見る位置に整えています。アッシュの笑顔は歯を大きくむき出す表情から、目を開けた穏やかな笑顔へ変更。リネの丸い頬・大きな琥珀色の目に対して、ノアは長めの輪郭・直線的な眉・細めの緑の瞳・長めの鼻を持つ顔に描き直しました。ノアの通常メニュー画像も同じ新しい絵から切り出します。
+視線は極端な横目や細すぎる半目を避け、話し相手を見る位置に整えています。アッシュの笑顔は歯を大きくむき出す表情から、目を開けた穏やかな笑顔へ変更。リネの丸い頬・大きな琥珀色の目に対して、ノアは頭と髪の比率を小さめに整え、顎と鼻を柔らかく短めにしました。落ち着いた緑の瞳と直線的な眉に、少し茶目っ気のあるクールビューティの雰囲気を持たせています。ノアの通常メニュー画像も同じ新しい絵から切り出します。
 
 会話データの `expression` と任意の `reaction: {at, expression}` で演技を指定します。新聞の「1億G」でリネが驚く場面と、報酬を話してしまい「——あ」で気づくアッシュの場面に対応。一括表示でも同じ最終表情になります。
 
-完成した画像は `assets/portraits/`、制作記録は同フォルダーの `provenance.json`、切り出しは `tools/prepare_expressions.py`。処理は完成した二人並びの原画を分割し、サイズをそろえてWebPへ保存するだけです。旧 `assets/expressions/` は以前のページとの互換性のため残しますが、現在のゲームは読み込みません。バージョン付きURLと数行先の先読みを使い、開始時に全20枚の読み込みを待ちません。
+完成した画像は `assets/portraits/`、制作記録は同フォルダーの `provenance.json`、切り出しは `tools/prepare_expressions.py`。`--only noa` でノアの画像だけを更新できます。処理は完成した二人並びの原画を分割し、サイズをそろえてWebPへ保存するだけです。旧 `assets/expressions/` は以前のページとの互換性のため残しますが、現在のゲームは読み込みません。バージョン付きURLと数行先の先読みを使い、開始時に全20枚の読み込みを待ちません。
 
 手帳で既読会話を選び「会話画面で見返す」を押すと再読できます。選択肢を再適用せず、報酬や戦闘、進行の記録を変えません。
 
